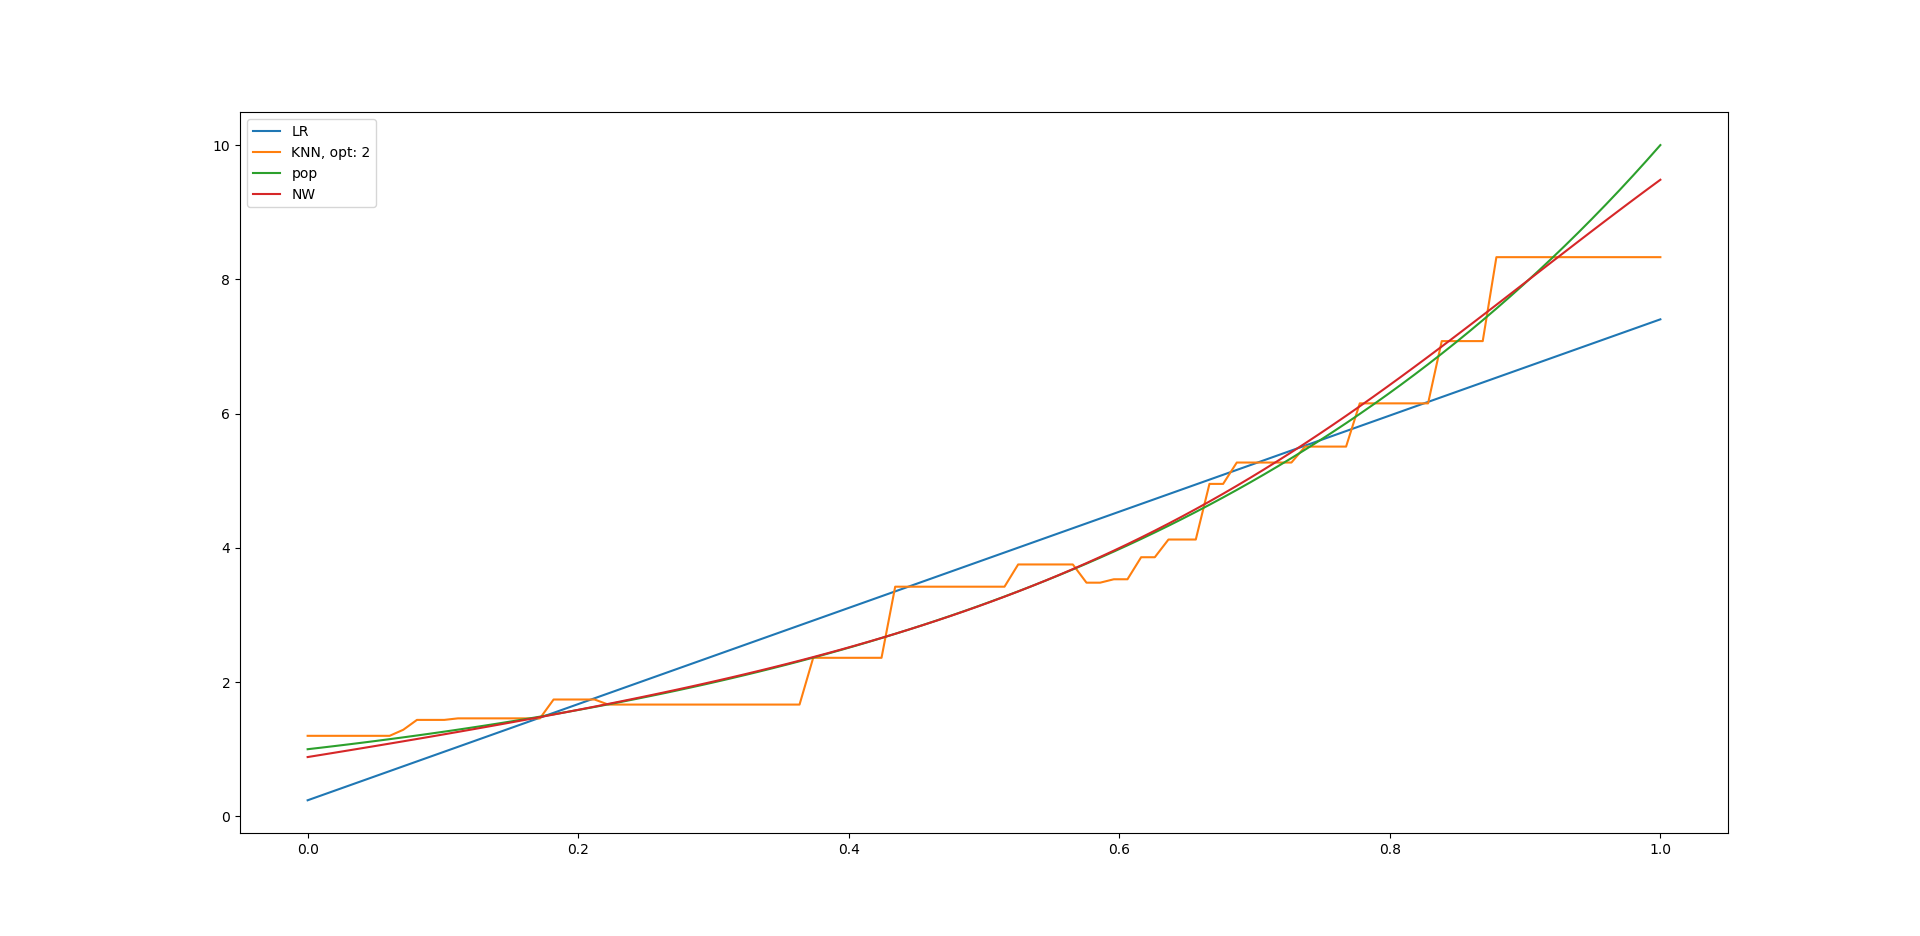
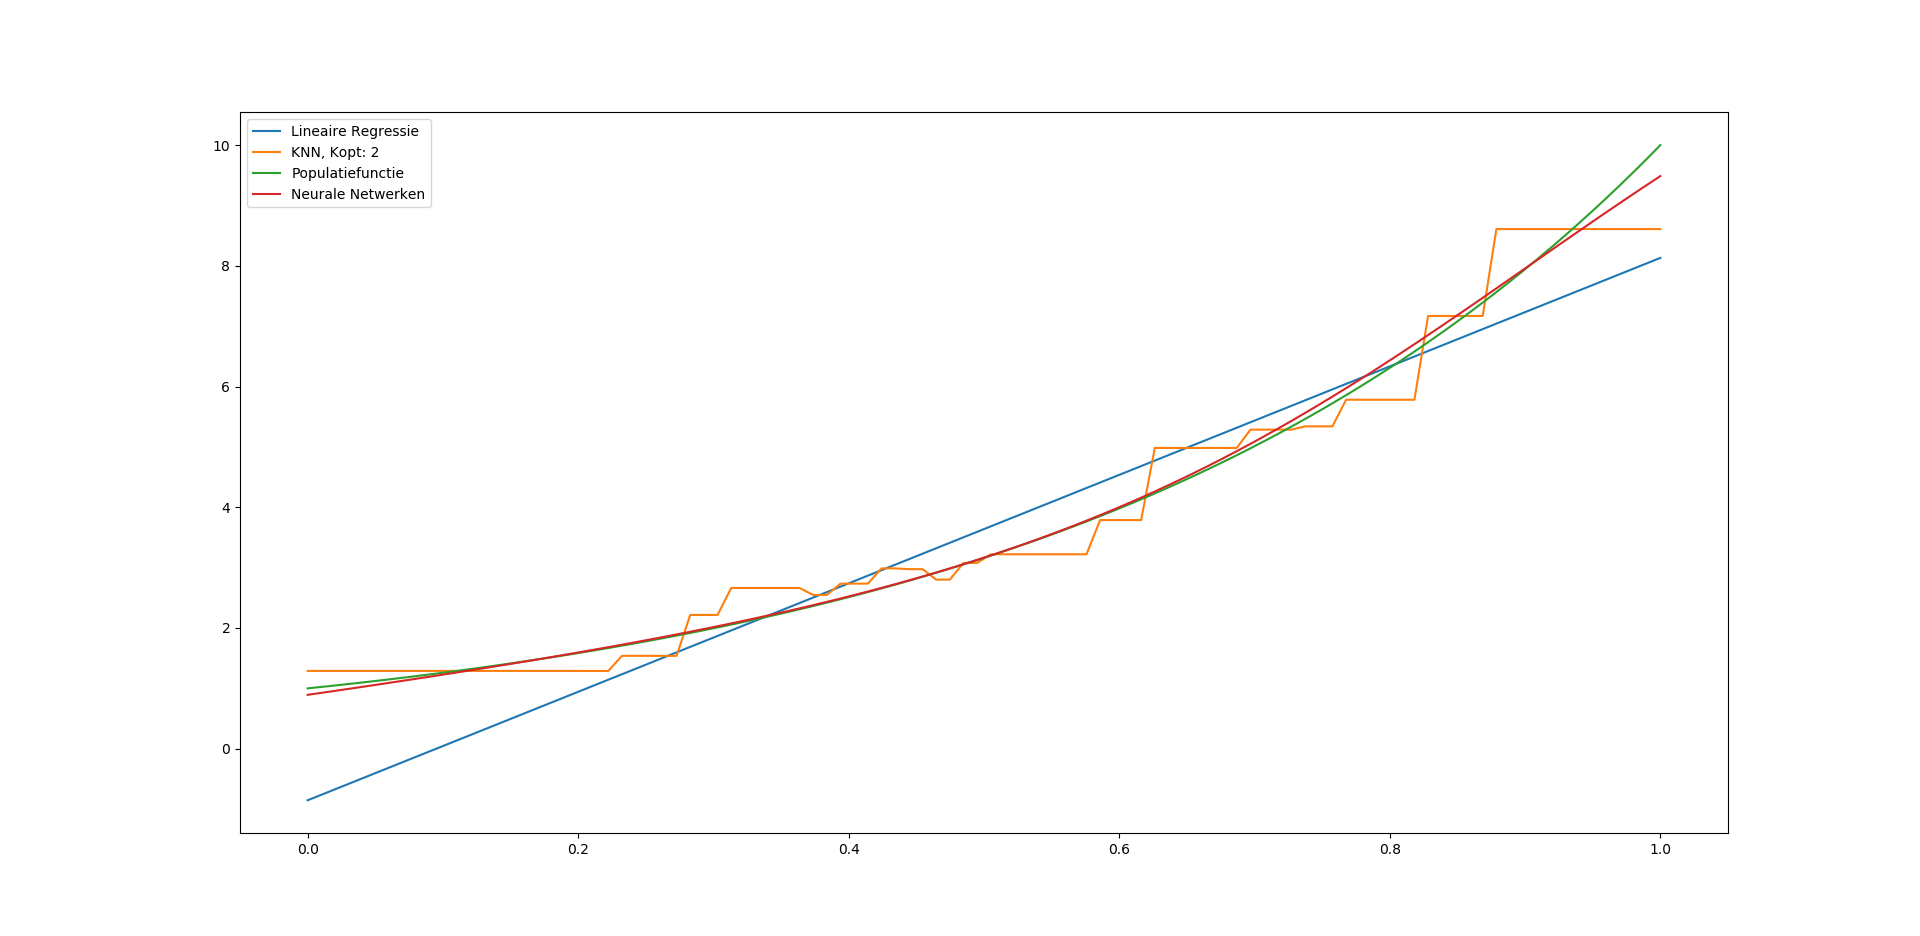
vergelijking beter

diff --git a/neural network.py b/neural network.py
@@ -13,32 +13,32 @@ def LR(xx, yy):
     a, b = OLSVoorschriftBeter(xx, yy)
     xLR = np.linspace(0, 1, 100)
     yLR = [b * xje + a for xje in xLR]
-    plt.plot(xLR, yLR, label = "LR")
+    plt.plot(xLR, yLR, label = "Lineaire Regressie")
 
 def KNN(xx, yy):
     k = bepaalK_opt(20, xx, yy, f)
     xKNN = np.linspace(0, 1, 100)
     yKNN = [Knn_uiteindelijk(xje, xx, yy, k) for xje in xKNN]
-    plt.plot(xKNN, yKNN, label = "KNN, opt: %s" % k)
+    plt.plot(xKNN, yKNN, label = "KNN, Kopt: %s" % k)
 
 def pop():
     xPop = np.linspace(0, 1, 100)
     yPop = [f(xje) for xje in xPop]
-    plt.plot(xPop, yPop, label="pop")
+    plt.plot(xPop, yPop, label="Populatiefunctie")
 
-def NW():
-    xx = xsample(2000,0,1)
+def NN():
+    xx = xsample(2000, 0, 1)
     random.shuffle(xx)
     y = [f(xsje) for xsje in xx]
     X2 = [[1, xsje] for xsje in xx]
 
-    regr = MLPRegressor(activation="tanh", hidden_layer_sizes=20, random_state=3, max_iter=1000).fit(X2, y)
+    regr = MLPRegressor(activation = "tanh", hidden_layer_sizes = 20, random_state = 3, max_iter = 1000).fit(X2, y)
 
     xxx = np.linspace(0, 1, 100)
     XXX2 = [[1, xsje] for xsje in xxx]
     yyy = regr.predict(XXX2)
 
-    plt.plot(xxx, yyy, label = "NW")
+    plt.plot(xxx, yyy, label = "Neurale Netwerken")
 
 
 def main():
@@ -48,7 +48,7 @@ def main():
     LR(xx, yy)
     KNN(xx, yy)
     pop()
-    NW()
+    NN()
     plt.legend()
     plt.show()
 
